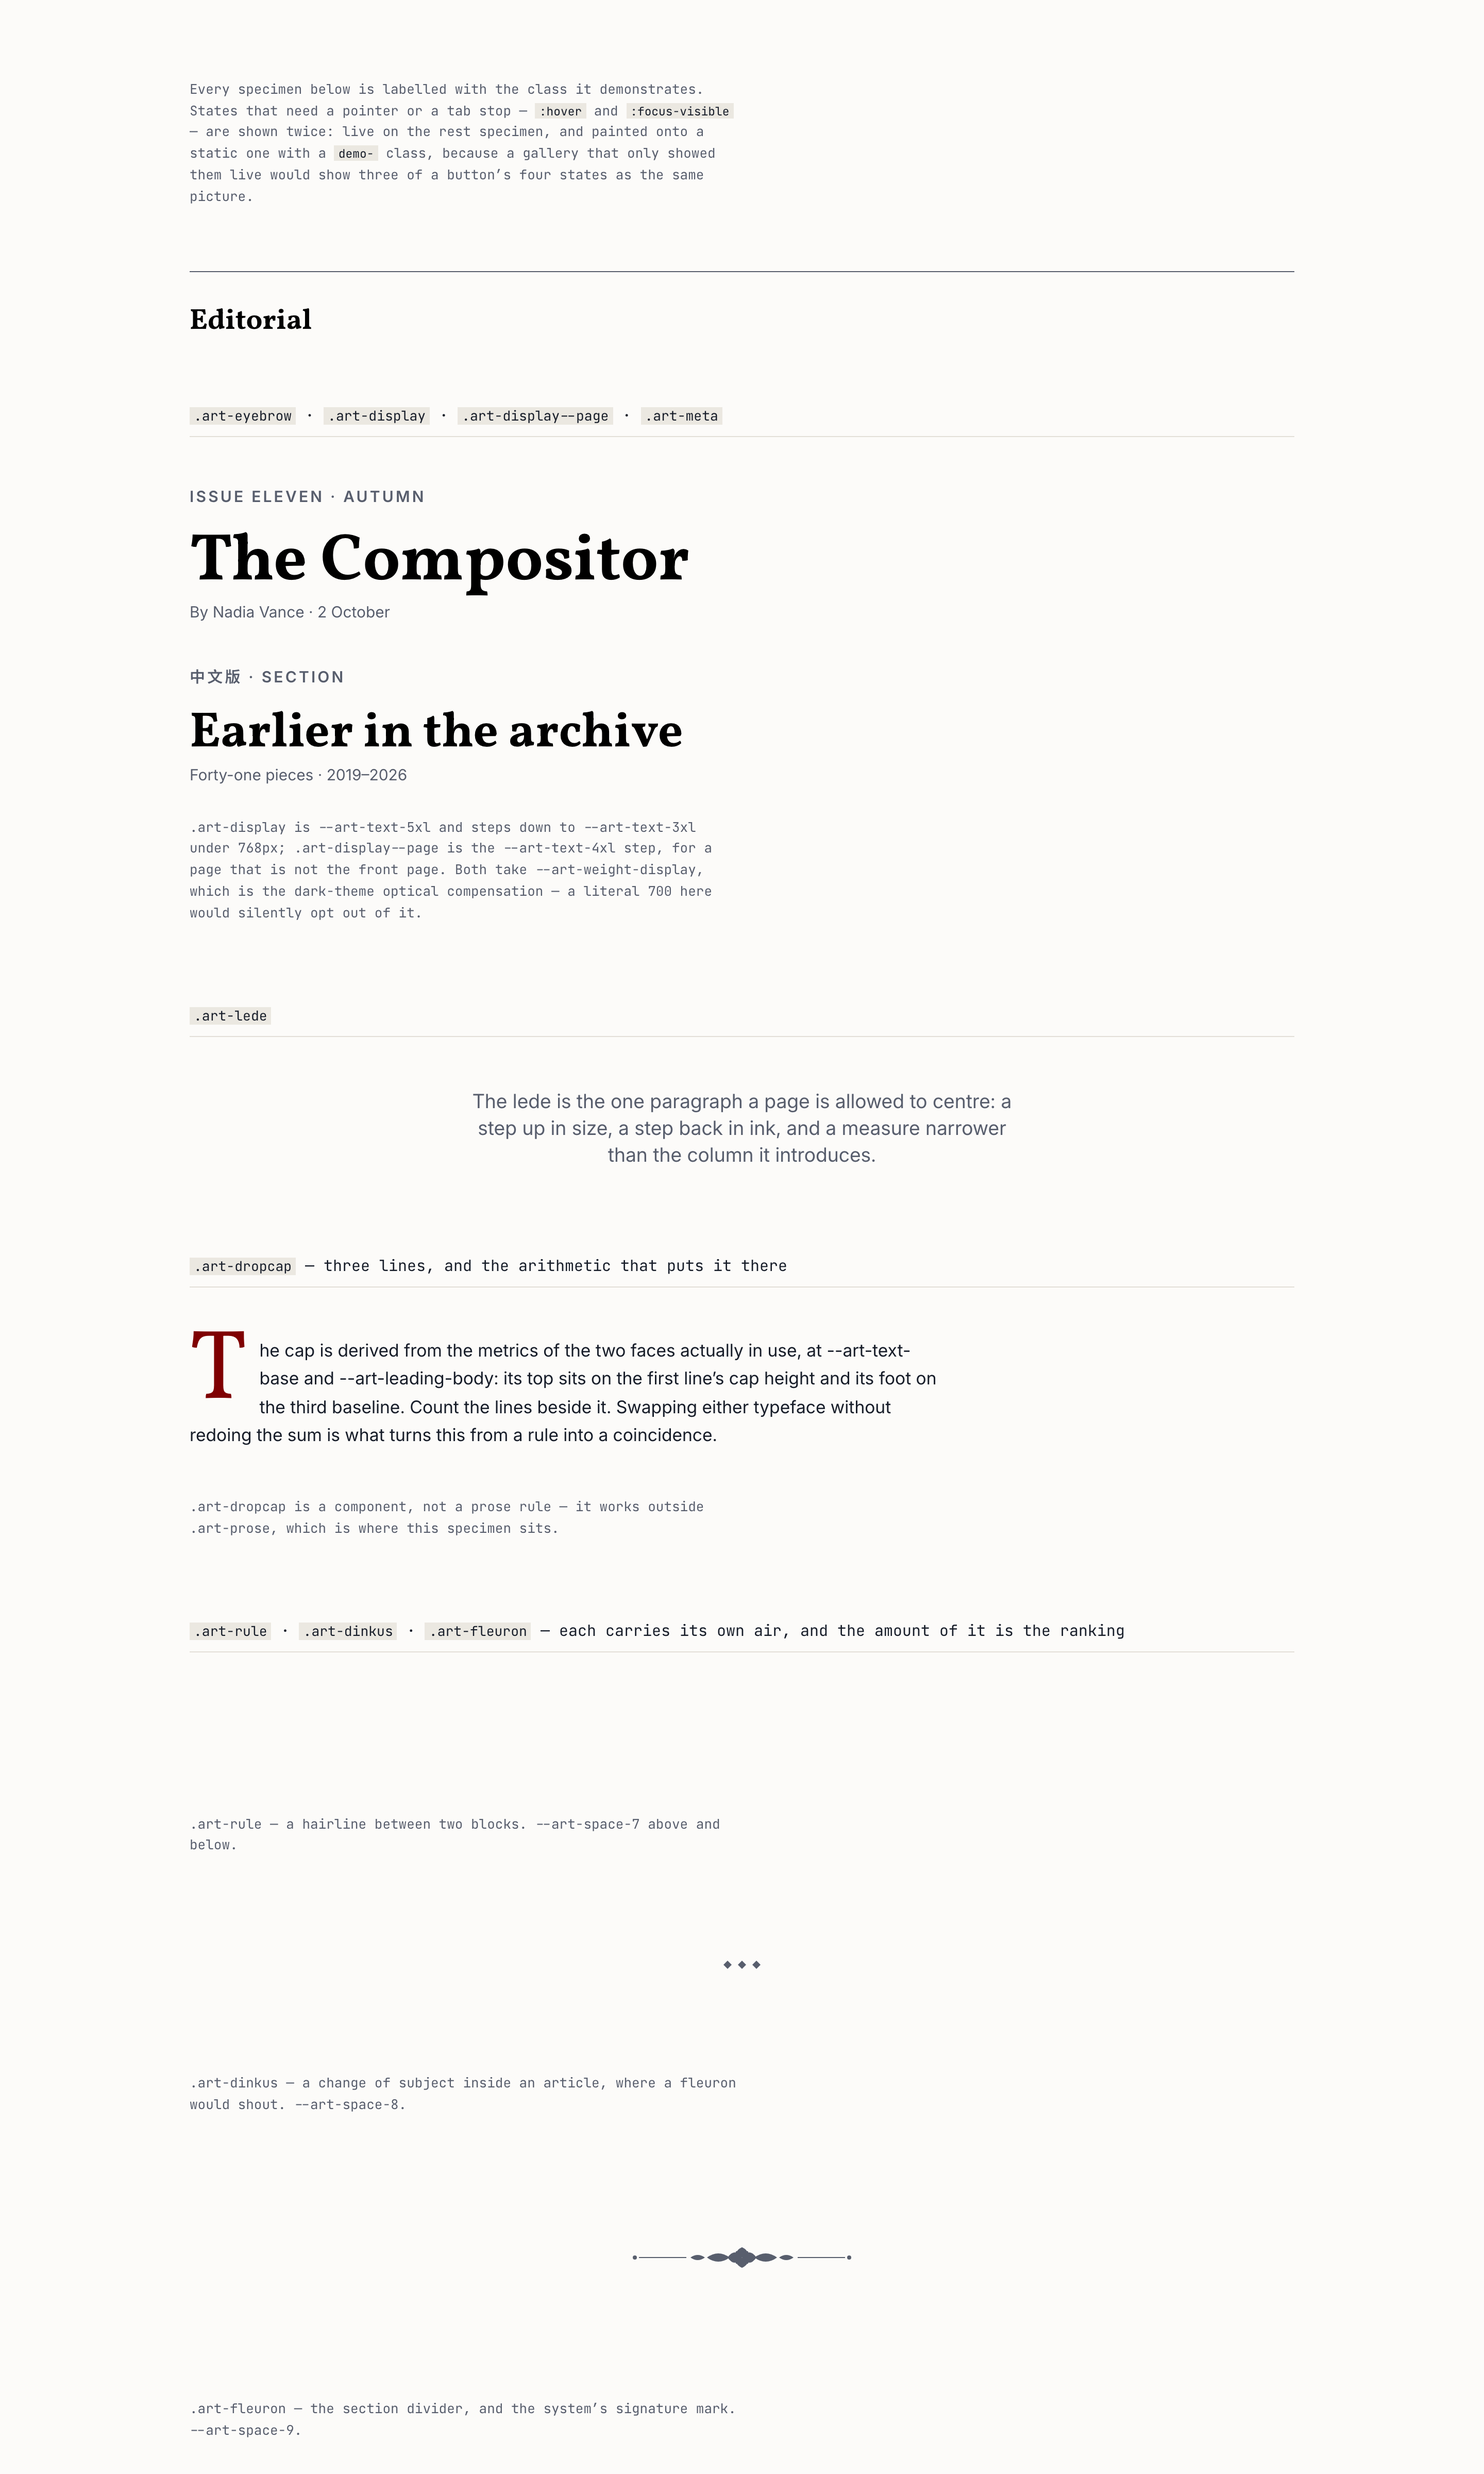
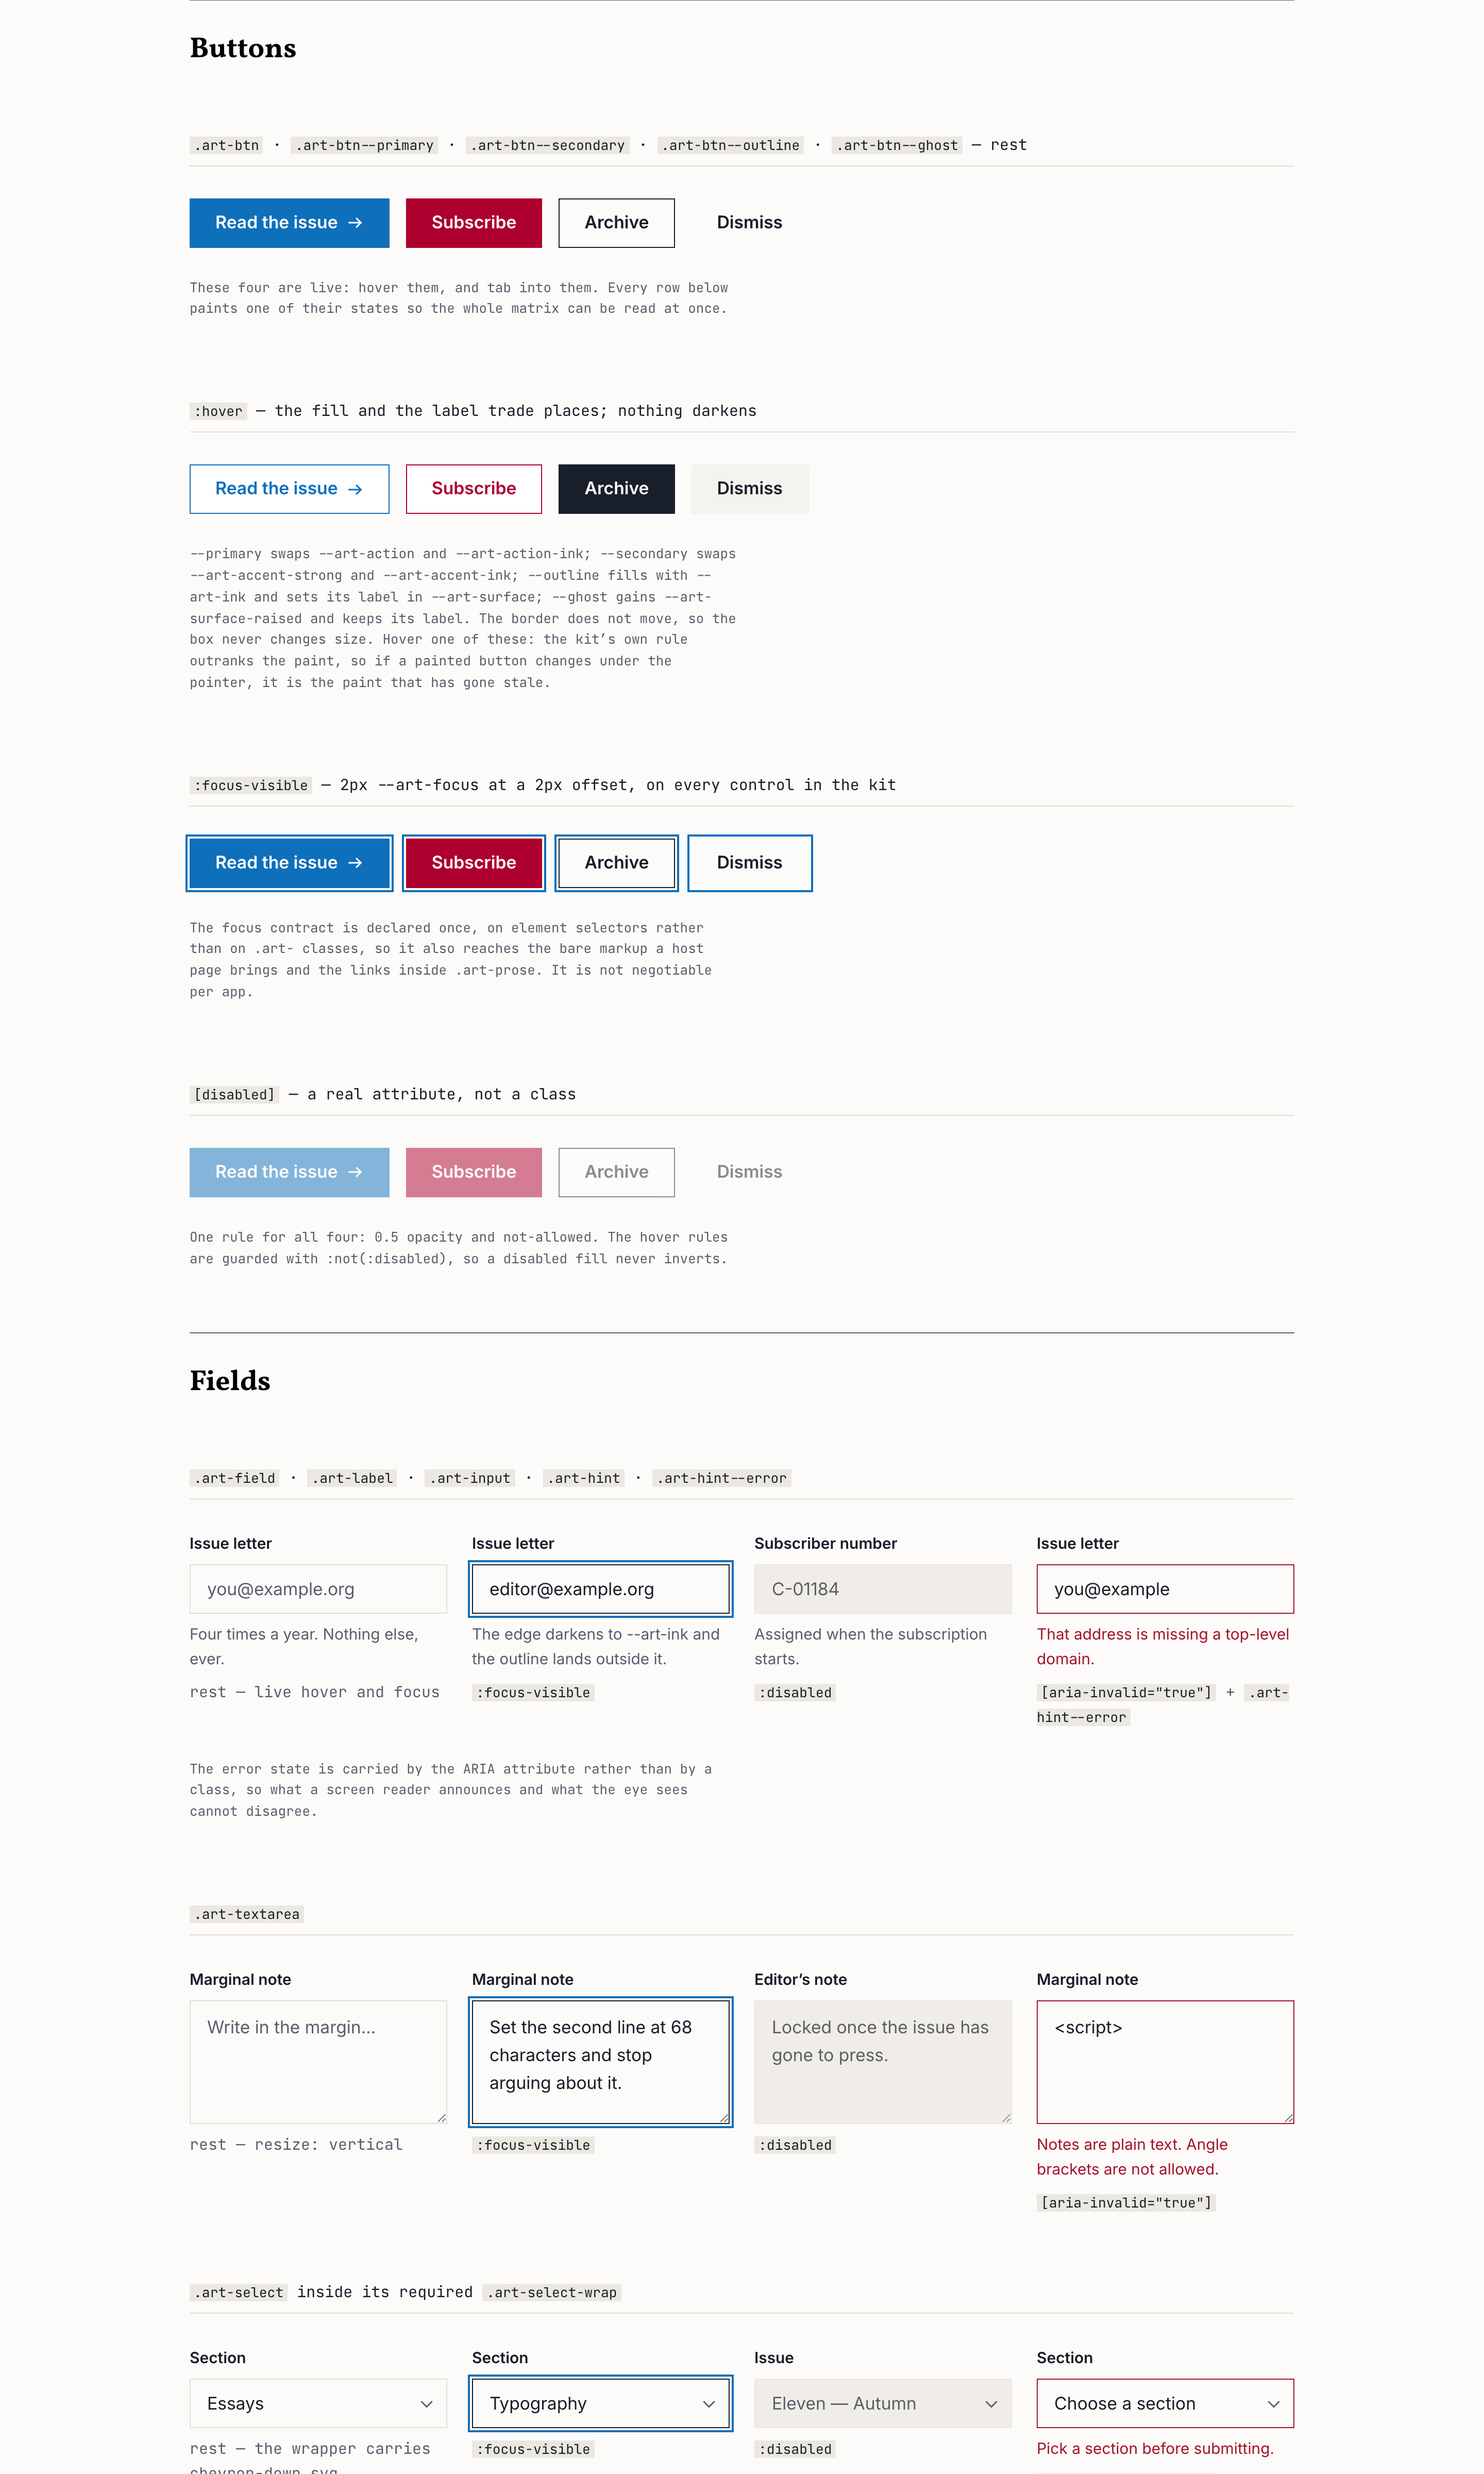
Full component gallery; fix table row separator, numeric header alignment and disabled fields in dark

diff --git a/web/article.css b/web/article.css
@@ -478,7 +478,7 @@
 .art-input:disabled,
 .art-textarea:disabled,
 .art-select:disabled {
-  background-color: var(--art-surface-sunken);
+  background-color: var(--art-surface-disabled);
   opacity: 0.7;
   cursor: not-allowed;
 }
@@ -752,10 +752,17 @@
   text-align: left;
   font-weight: 600;
   color: var(--art-ink);
+  /* A row header is still part of its row, so it carries the row separator.
+     Without this the hairline stops dead at the first column. */
+  border-bottom: var(--art-rule-width) solid var(--art-rule);
 }
 
 .art-table tbody th:first-child { padding-left: 0; }
 
+/* Scoped so it outranks `.art-table thead th { text-align: left }`, which is
+   (0,1,2) against a bare `.art-table__num`'s (0,1,0). Unscoped, a numeric
+   COLUMN HEADING silently stayed left-aligned above its right-aligned figures. */
+.art-table .art-table__num,
 .art-table__num {
   text-align: right;
   font-variant-numeric: tabular-nums;

diff --git a/web/tokens.css b/web/tokens.css
@@ -94,6 +94,12 @@
   --art-surface:        light-dark(var(--art-c-paper-0),   var(--art-dk-page));
   --art-surface-raised: light-dark(var(--art-c-paper-50),  var(--art-dk-raised));
   --art-surface-sunken: light-dark(var(--art-c-paper-100), var(--art-dk-sunken));
+  /* An inert control's ground. It flips direction between themes, for the same
+     reason the accent does: on paper a disabled field reads as pressed INTO the
+     page, but on a dark ground "sunken" is nearly invisible (1.07:1 against the
+     page in the Catppuccin palette), so in dark it becomes a raised, filled
+     slab instead. Same job, opposite direction. */
+  --art-surface-disabled: light-dark(var(--art-c-paper-100), var(--art-dk-raised));
 
   /* Ink. Three steps, and the top one is genuinely blacker than body text —
      the reference sets display headlines in pure #000 against #181E2A body. */

diff --git a/STYLE.md b/STYLE.md
@@ -430,6 +430,7 @@ Every semantic token. These are the only names a component may use; the `--art-c
 | `--art-surface` | The page ground |
 | `--art-surface-raised` | A surface sitting above the page |
 | `--art-surface-sunken` | A recessed surface; code ground |
+| `--art-surface-disabled` | The ground of an inert control. Recessed in light, raised in dark — "sunken" is nearly invisible on a dark ground, so the role flips direction like the accent does |
 | `--art-ink-strong` | Display headlines only |
 | `--art-ink` | Body text |
 | `--art-ink-muted` | Captions, eyebrows, metadata, placeholders |

diff --git a/README.md b/README.md
@@ -22,7 +22,9 @@ python3 -m http.server 8770
 ```
 
 Open <http://127.0.0.1:8770/demo/index.html>. That page is the whole system: a website,
-three phone screens, and every component. Use `http`, not `file://`.
+three phone screens, and every component in every state. Use `http`, not `file://`.
+
+Here's [the component gallery](docs/screenshots/gallery-light.png) if you'd rather just look.
 
 ## Use it
 
